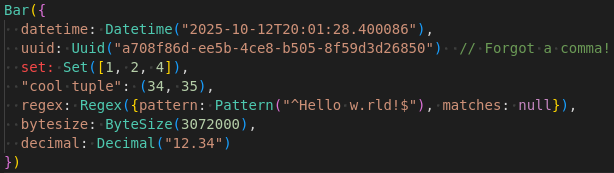
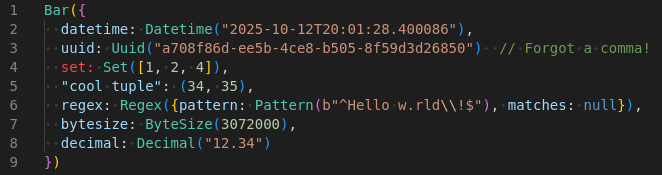
Highlight keys differently from strings

diff --git a/duper_website/docs/vs-code.md b/duper_website/docs/vs-code.md
@@ -2,4 +2,6 @@
 
 You can install the official extension [here](https://marketplace.visualstudio.com/items?itemName=epic-eric.duper-vs-code).
 
+It currently only supports syntax highlighting and adding the Duper logo to `.duper` files.
+
 ![An example of Duper highlighting on Visual Studio Code.](/images/vscode-example.png)

diff --git a/duper-vs-code/CHANGELOG.md b/duper-vs-code/CHANGELOG.md
@@ -1,5 +1,11 @@
 # Changelog
 
+## 0.3.2 (2025-11-01)
+
+### Added
+
+- Highlight keys differently from strings.
+
 ## 0.3.1 (2025-11-01)
 
 ### Added
